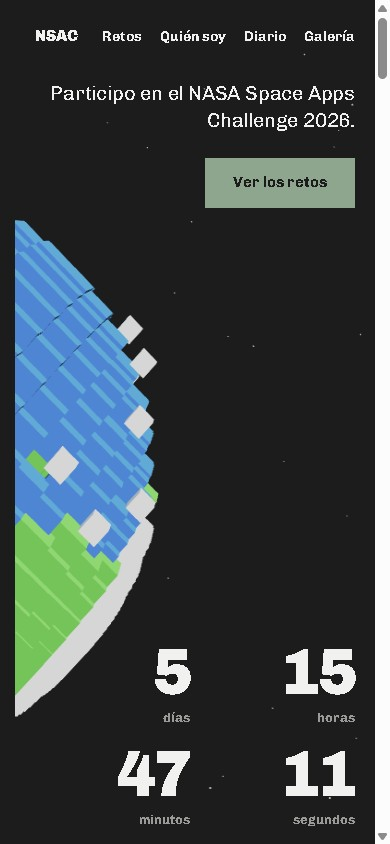
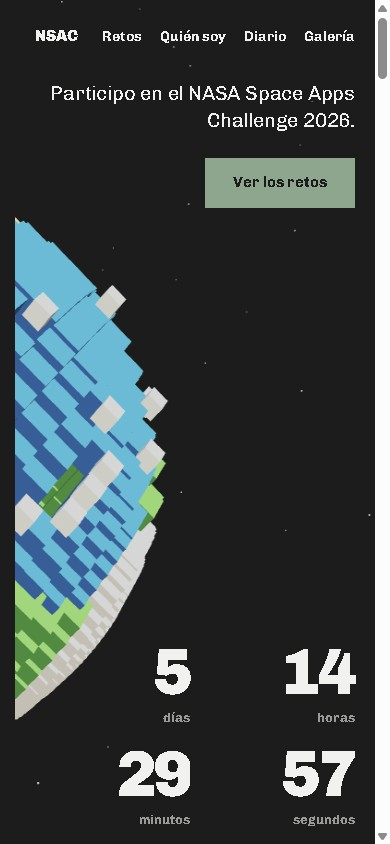
diario: puente republicado con foto en el post y la galeria; og fresco

diff --git a/index.html b/index.html
@@ -4,7 +4,7 @@
 <meta charset="utf-8">
 <meta name="viewport" content="width=device-width, initial-scale=1.0">
 <title>NSAC — NASA Space Apps Challenge 2026 | Alejandro Sosa</title>
-<meta name="description" content="Participo en el NASA Space Apps Challenge 2026 desde Santa Cruz de la Sierra. Faltan 5 días y 15 horas para el inicio: sábado 14 de noviembre, 9:00 en Bolivia. Cuenta regresiva en vivo, los 14 retos oficiales y el diario del hackathon.">
+<meta name="description" content="Participo en el NASA Space Apps Challenge 2026 desde Santa Cruz de la Sierra. Faltan 5 días y 14 horas para el inicio: sábado 14 de noviembre, 9:00 en Bolivia. Cuenta regresiva en vivo, los 14 retos oficiales y el diario del hackathon.">
 <meta name="author" content="Alejandro Sosa Briceño">
 <meta name="robots" content="index, follow, max-image-preview:large">
 <link rel="canonical" href="https://asosab.github.io/NSAC/">
@@ -13,7 +13,7 @@
 <meta property="og:type" content="website">
 <meta property="og:site_name" content="NSAC — NASA Space Apps 2026">
 <meta property="og:title" content="NSAC — NASA Space Apps Challenge 2026">
-<meta property="og:description" content="Faltan 5 días y 15 horas para el hackathon más grande del mundo: empieza el sábado 14 de noviembre a las 9:00 (hora de Bolivia). Cuenta regresiva en vivo, los 14 retos oficiales y el diario del evento.">
+<meta property="og:description" content="Faltan 5 días y 14 horas para el hackathon más grande del mundo: empieza el sábado 14 de noviembre a las 9:00 (hora de Bolivia). Cuenta regresiva en vivo, los 14 retos oficiales y el diario del evento.">
 <meta property="og:url" content="https://asosab.github.io/NSAC/">
 <meta property="og:image" content="https://asosab.github.io/NSAC/assets/img/og-cover.jpg">
 <meta property="og:image:width" content="390">
@@ -26,7 +26,7 @@
 <meta name="twitter:site" content="@asosab">
 <meta name="twitter:creator" content="@asosab">
 <meta name="twitter:title" content="NSAC — NASA Space Apps Challenge 2026">
-<meta name="twitter:description" content="Faltan 5 días y 15 horas: empieza el sábado 14 a las 9:00, hora de Bolivia. Cuenta regresiva en vivo, los 14 retos oficiales y el diario del hackathon.">
+<meta name="twitter:description" content="Faltan 5 días y 14 horas: empieza el sábado 14 a las 9:00, hora de Bolivia. Cuenta regresiva en vivo, los 14 retos oficiales y el diario del hackathon.">
 <meta name="twitter:image" content="https://asosab.github.io/NSAC/assets/img/og-cover.jpg">
 <meta name="twitter:image:alt" content="Planeta Tierra de bloques estilo Minecraft a la izquierda y cuenta regresiva gigante a la derecha.">
 

diff --git a/_posts/2026-11-08-puente.md b/_posts/2026-11-08-puente.md
@@ -1,0 +1,13 @@
+---
+layout: post
+title: "Puente"
+description: "Un grupo de WhatsApp escuchado: lo que mande ahí se publica solo en este sitio"
+---
+
+Abrí un grupo de WhatsApp, le puse «Diario NSAC» y le armé una escucha: lo que mande ahí —fotos, videos, enlaces o textos como este— se publica solo. Los textos caen en este diario y las imágenes se juntan en la [galería]({{ '/galeria/' | relative_url }}).
+
+![El grupo «Diario NSAC» recién creado, con el aviso de la escucha al pie]({{ '/assets/img/diario/2026-11-08-cbb89c6e.jpg' | relative_url }})
+
+¿Para qué? Porque durante el hackathon todo va a pasar por el celular y no me voy a sentar a escribir bonito a cada rato. Que el sitio se alimente solo.
+
+Este post nació de un mensaje mandado al grupo, así que el puente ya funciona.
